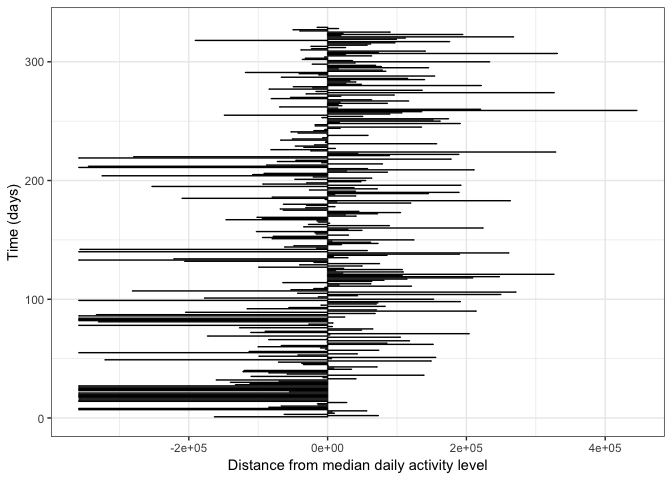
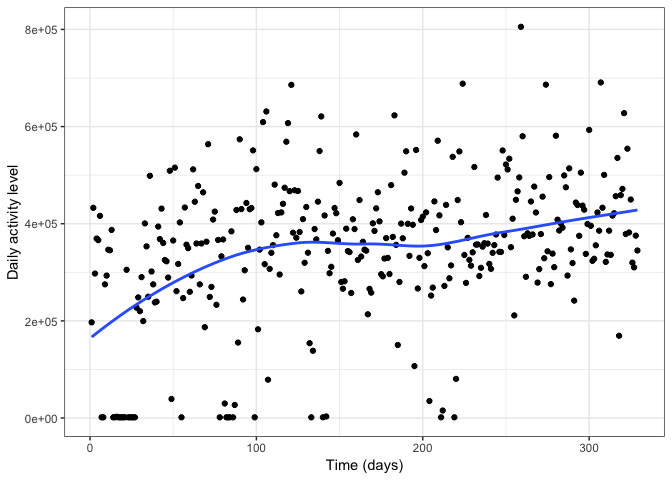
added linear models, ANOVA

diff --git a/p8105_mtp_amv2187.md b/p8105_mtp_amv2187.md
@@ -109,52 +109,69 @@ agg_days %>%
 agg_hour %>%
   ggplot(aes(x = hour, y = total_activity_hr, group = week, color = week)) + 
   geom_line() +
-  facet_grid(day ~ .) +
+  facet_grid(.~day) +
   theme(legend.position = 'none')
 ```
 
 ![](p8105_mtp_amv2187_files/figure-markdown_github/unnamed-chunk-4-2.png)
 
 ``` r
-# plot showing difference between total activity level by day and median. I'm interested in seeing whether we can identify any trends over time
+# Linear model of relationship between time (week, day of the week, and hour of day)
+time_model = lm(accel_data$activity_level ~ accel_data$week + accel_data$day + accel_data$hour)
+summary(time_model) # summary of lm
+```
+
+    ## 
+    ## Call:
+    ## lm(formula = accel_data$activity_level ~ accel_data$week + accel_data$day + 
+    ##     accel_data$hour)
+    ## 
+    ## Residuals:
+    ##     Min      1Q  Median      3Q     Max 
+    ##  -460.3  -216.7  -128.0    74.0 10084.3 
+    ## 
+    ## Coefficients:
+    ##                          Estimate Std. Error t value Pr(>|t|)    
+    ## (Intercept)              45.34084    2.16035  20.988  < 2e-16 ***
+    ## accel_data$week           2.77335    0.04352  63.724  < 2e-16 ***
+    ## accel_data$dayMonday    -29.35950    2.20890 -13.291  < 2e-16 ***
+    ## accel_data$dayTuesday   -36.44672    2.20890 -16.500  < 2e-16 ***
+    ## accel_data$dayWednesday -13.51564    2.20890  -6.119 9.44e-10 ***
+    ## accel_data$dayThursday   -2.53742    2.20890  -1.149   0.2507    
+    ## accel_data$dayFriday     21.05092    2.20890   9.530  < 2e-16 ***
+    ## accel_data$daySaturday   -4.77900    2.20890  -2.164   0.0305 *  
+    ## accel_data$hour          11.02443    0.08528 129.267  < 2e-16 ***
+    ## ---
+    ## Signif. codes:  0 '***' 0.001 '**' 0.01 '*' 0.05 '.' 0.1 ' ' 1
+    ## 
+    ## Residual standard error: 406.3 on 473751 degrees of freedom
+    ## Multiple R-squared:  0.04377,    Adjusted R-squared:  0.04375 
+    ## F-statistic:  2711 on 8 and 473751 DF,  p-value: < 2.2e-16
+
+``` r
+anova(time_model) # ANOVA test of difference between means
+```
+
+    ## Analysis of Variance Table
+    ## 
+    ## Response: accel_data$activity_level
+    ##                     Df     Sum Sq    Mean Sq  F value    Pr(>F)    
+    ## accel_data$week      1 6.7048e+08  670480040  4060.71 < 2.2e-16 ***
+    ## accel_data$day       6 1.5099e+08   25164617   152.41 < 2.2e-16 ***
+    ## accel_data$hour      1 2.7590e+09 2759034714 16709.90 < 2.2e-16 ***
+    ## Residuals       473751 7.8223e+10     165114                       
+    ## ---
+    ## Signif. codes:  0 '***' 0.001 '**' 0.01 '*' 0.05 '.' 0.1 ' ' 1
+
+``` r
 agg_days %>%
-  mutate(dif = total_activity - median(total_activity)) %>% 
-  ggplot(aes(x = order, y = dif)) +
-  geom_errorbar(aes(ymax = 0, ymin = dif)) +
+  ggplot(aes(x = order, y = total_activity)) +
+  geom_point() + 
+  geom_smooth(method = 'loess', se = F)  +
   labs(
-    y = 'Distance from median daily activity level',
+    y = 'Daily activity level',
     x = 'Time (days)'
-  ) + 
-  coord_flip() 
+  )
 ```
 
 ![](p8105_mtp_amv2187_files/figure-markdown_github/unnamed-chunk-4-3.png)
-
-``` r
-# anova(lm(accel_data$activity_level ~ accel_data$day))
-# anova(lm(accel_data$activity_level ~ accel_data$week))
-anova(lm(accel_data$activity_level ~ accel_data$week + accel_data$day))
-```
-
-    ## Analysis of Variance Table
-    ## 
-    ## Response: accel_data$activity_level
-    ##                     Df     Sum Sq   Mean Sq F value    Pr(>F)    
-    ## accel_data$week      1 6.7048e+08 670480040 3922.38 < 2.2e-16 ***
-    ## accel_data$day       6 1.5099e+08  25164617  147.22 < 2.2e-16 ***
-    ## Residuals       473752 8.0982e+10    170937                      
-    ## ---
-    ## Signif. codes:  0 '***' 0.001 '**' 0.01 '*' 0.05 '.' 0.1 ' ' 1
-
-``` r
-anova(lm(accel_data$activity_level ~ accel_data$hour))
-```
-
-    ## Analysis of Variance Table
-    ## 
-    ## Response: accel_data$activity_level
-    ##                     Df     Sum Sq    Mean Sq F value    Pr(>F)    
-    ## accel_data$hour      1 2.7590e+09 2759034714   16536 < 2.2e-16 ***
-    ## Residuals       473758 7.9044e+10     166845                      
-    ## ---
-    ## Signif. codes:  0 '***' 0.001 '**' 0.01 '*' 0.05 '.' 0.1 ' ' 1
